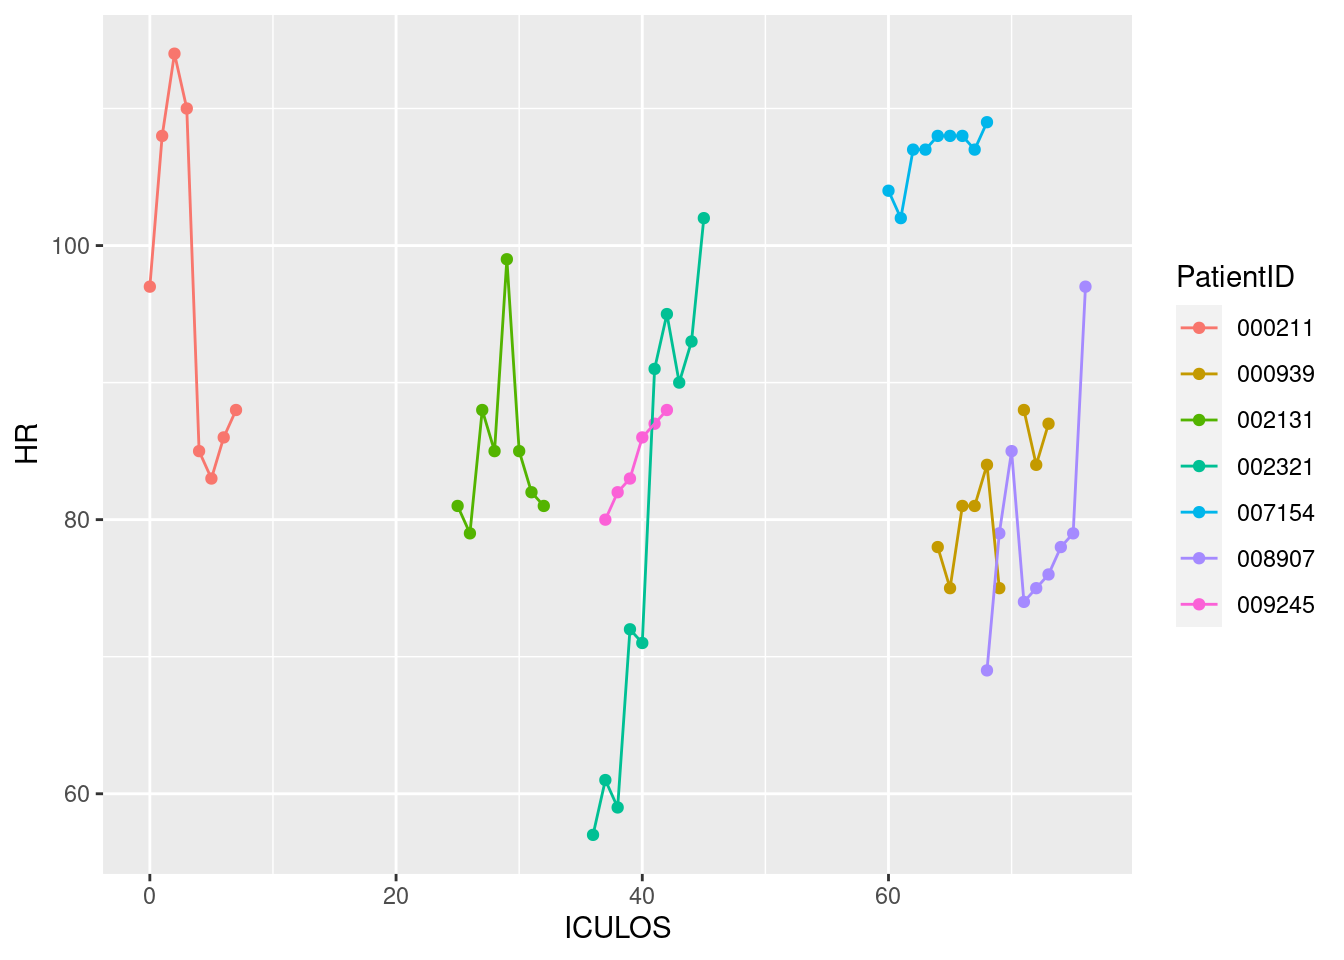
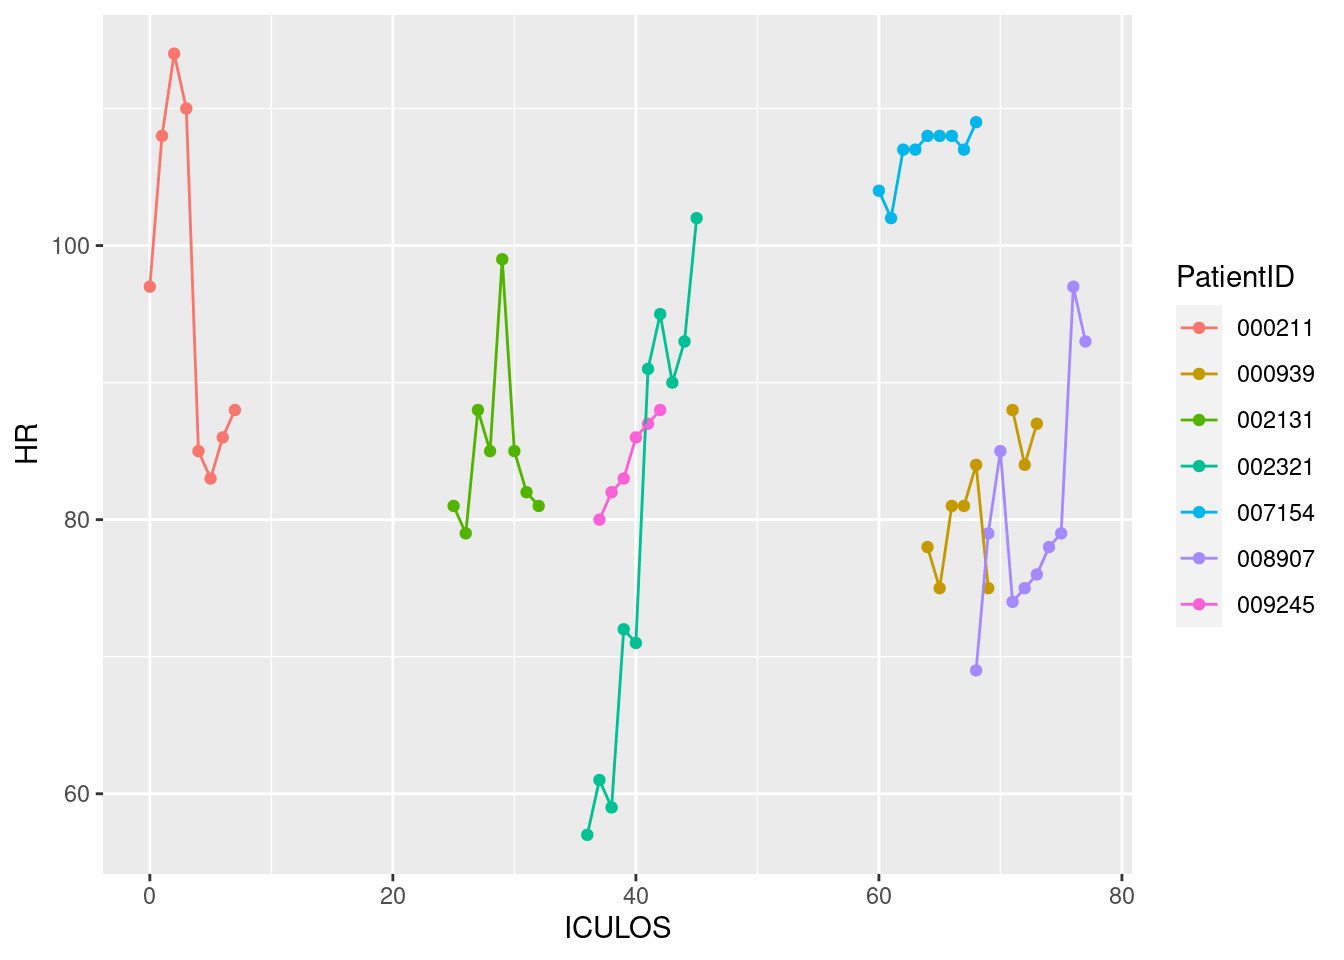
Updated report

diff --git a/a7qmd.html b/a7qmd.html
@@ -80,7 +80,7 @@ ul.task-list li input[type="checkbox"] {
 <h2 class="anchored" data-anchor-id="current-date-and-time">Current date and time</h2>
 <div class="cell">
 <div class="cell-output cell-output-stdout">
-<pre><code>[1] "2023-04-12 23:15:27 UTC"</code></pre>
+<pre><code>[1] "2023-04-13 01:12:53 UTC"</code></pre>
 </div>
 </div>
 </section>
@@ -130,9 +130,9 @@ ul.task-list li input[type="checkbox"] {
 </tr>
 <tr class="even">
 <td style="text-align: left;">008907</td>
-<td style="text-align: right;">97</td>
-<td style="text-align: right;">36.61</td>
-<td style="text-align: right;">20</td>
+<td style="text-align: right;">93</td>
+<td style="text-align: right;">NA</td>
+<td style="text-align: right;">13</td>
 </tr>
 <tr class="odd">
 <td style="text-align: left;">009245</td>
@@ -427,9 +427,9 @@ ul.task-list li input[type="checkbox"] {
 </tr>
 <tr class="odd">
 <td style="text-align: left;">008907</td>
-<td style="text-align: right;">18</td>
+<td style="text-align: right;">-4</td>
 <td style="text-align: right;">NA</td>
-<td style="text-align: right;">1</td>
+<td style="text-align: right;">-7</td>
 </tr>
 <tr class="even">
 <td style="text-align: left;">008916</td>
